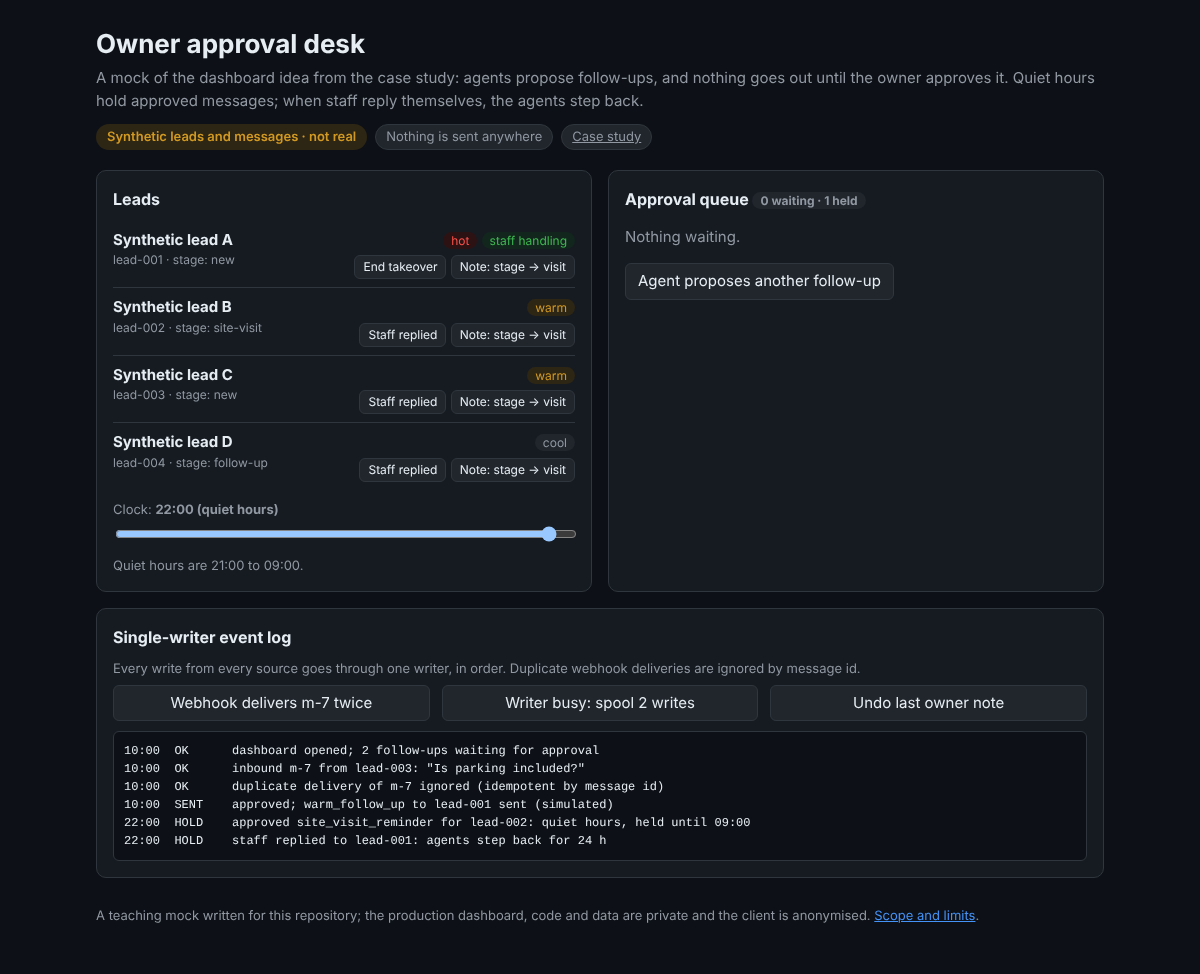
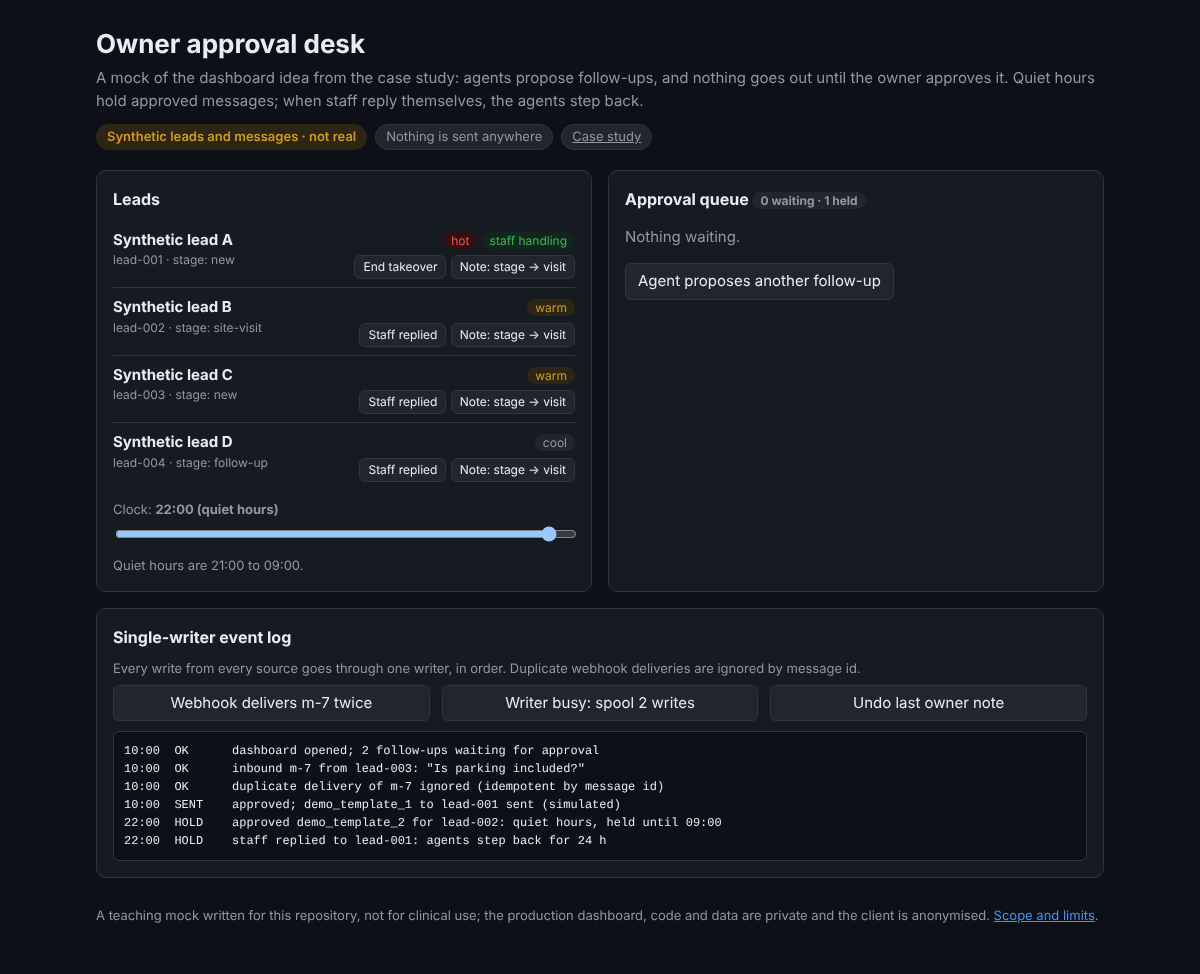
fix: address G4 review of the demo additions
- invented example values that cannot be mistaken for measured results; generic names
- terminal recording wraps long lines instead of cutting them; untrack __pycache__
- mobile layout, reduced motion, aria-live logs, safer DOM building in the calculator
- scope notes in AGENTS.md/TRUST.md; 'not for clinical use' on every demo page

Claude-Session: https://claude.ai/code/session_01Rs77ck8AWVGNB3vy8rZ9G6

Changed region(s): [[0.3083, 0.924, 0.925, 0.9548], [0.2467, 0.8008, 0.6167, 0.8624]]

diff --git a/site/index.html b/site/index.html
@@ -37,15 +37,15 @@
     <h2>Single-writer event log</h2>
     <p class="dim" style="margin:0 0 6px;font-size:13px">Every write from every source goes through one writer, in order. Duplicate webhook deliveries are ignored by message id.</p>
     <div class="row" style="margin-bottom:8px"><button id="dup">Webhook delivers m-7 twice</button><button id="busy">Writer busy: spool 2 writes</button><button id="undo">Undo last owner note</button></div>
-    <pre id="log" class="mono"></pre>
+    <pre id="log" class="mono" aria-live="polite"></pre>
   </section>
 </div>
-<footer>A teaching mock written for this repository; the production dashboard, code and data are private and the client is anonymised. <a href="https://github.com/sterilefield/whatsapp-agent-case-study/blob/main/TRUST.md">Scope and limits</a>.</footer>
+<footer>A teaching mock written for this repository, not for clinical use; the production dashboard, code and data are private and the client is anonymised. <a href="https://github.com/sterilefield/whatsapp-agent-case-study/blob/main/TRUST.md">Scope and limits</a>.</footer>
 </main>
 <script>
 const leads=[{id:"lead-001",name:"Synthetic lead A",heat:"hot",stage:"new",takeover:false},{id:"lead-002",name:"Synthetic lead B",heat:"warm",stage:"site-visit",takeover:false},{id:"lead-003",name:"Synthetic lead C",heat:"warm",stage:"new",takeover:false},{id:"lead-004",name:"Synthetic lead D",heat:"cool",stage:"follow-up",takeover:false}];
-const TEMPLATES={warm_follow_up:"Hello! Just checking whether you had a chance to look at the options we shared. Happy to answer any questions.",site_visit_reminder:"Reminder: your site visit is tomorrow at 11:00. Reply here if you need to change the time.",recommend_property:"Based on what you told us, here is one more option that matches your budget and area."};
-let queue=[{lead:"lead-001",tpl:"warm_follow_up",by:"follow-up-agent"},{lead:"lead-002",tpl:"site_visit_reminder",by:"scheduler-agent"}],held=[],spool=[],seen=new Set(),undo=[],busy=false;
+const TEMPLATES={demo_template_1:"[Invented demo text] Hello, this is a follow-up message.",demo_template_2:"[Invented demo text] A reminder about your appointment.",demo_template_3:"[Invented demo text] One more option you may like."};
+let queue=[{lead:"lead-001",tpl:"demo_template_1",by:"follow-up-agent"},{lead:"lead-002",tpl:"demo_template_2",by:"scheduler-agent"}],held=[],spool=[],seen=new Set(),undo=[],busy=false;
 const $=id=>document.getElementById(id);const hh=()=>String($("clock").value).padStart(2,"0")+":00";const quiet=()=>{const h=+$("clock").value;return h>=21||h<9};
 function log(t){$("log").textContent+=hh()+"  "+t+"\n";$("log").scrollTop=1e9}
 function write(src,desc,fn){if(busy){spool.push([src,desc,fn]);log("SPOOL   writer busy: "+src+" "+desc+" spooled ("+spool.length+" waiting)");return}fn();}
@@ -59,11 +59,11 @@ function render(){
   document.querySelectorAll("[data-take]").forEach(b=>b.onclick=()=>{const l=leads.find(x=>x.id===b.dataset.take);write("staff-phone","takeover",()=>{l.takeover=!l.takeover;log(l.takeover?"HOLD    staff replied to "+l.id+": agents step back for 24 h":"OK      takeover ended for "+l.id);if(l.takeover){const n=queue.length;queue=queue.filter(q=>q.lead!==l.id);if(n>queue.length)log("HOLD    "+(n-queue.length)+" agent follow-up(s) for "+l.id+" withdrawn")}render()})});
   document.querySelectorAll("[data-note]").forEach(b=>b.onclick=()=>{const l=leads.find(x=>x.id===b.dataset.note);write("owner-telegram","note",()=>{undo.push([l.id,l.stage]);log("OK      owner note: "+l.id+" stage "+l.stage+" → site-visit (undo handle U"+String(undo.length).padStart(3,"0")+")");l.stage="site-visit";render()})});
 }
-function decide(i,ok){const q=queue[i];write("owner-dashboard",ok?"approve":"reject",()=>{queue.splice(i,1);if(!ok)log("REJECTED owner rejected "+q.tpl+" for "+q.lead);else if(quiet()){held.push(q);log("HOLD    approved "+q.tpl+" for "+q.lead+": quiet hours, held until 09:00")}else log("SENT    approved; "+q.tpl+" to "+q.lead+" sent (simulated)");render()})}
+function decide(i,ok){const q=queue[i];write("owner-dashboard",ok?"approve":"reject",()=>{const at=queue.indexOf(q);if(at<0)return;queue.splice(at,1);if(!ok)log("REJECTED owner rejected "+q.tpl+" for "+q.lead);else if(quiet()){held.push(q);log("HOLD    approved "+q.tpl+" for "+q.lead+": quiet hours, held until 09:00")}else log("SENT    approved; "+q.tpl+" to "+q.lead+" sent (simulated)");render()})}
 $("clock").oninput=()=>{if(!quiet()&&held.length){log("SENT    quiet hours over: "+held.length+" held message(s) sent (simulated)");held=[]}render()};
 $("propose").onclick=()=>{const free=leads.filter(l=>!l.takeover);const l=free[Math.floor(Math.random()*free.length)];const tpls=Object.keys(TEMPLATES);if(!l){log("HOLD    every lead is in human takeover; agents propose nothing");return}const t=tpls[Math.floor(Math.random()*tpls.length)];write("follow-up-agent","propose",()=>{queue.push({lead:l.id,tpl:t,by:"follow-up-agent"});log("WAIT    follow-up-agent proposed "+t+" for "+l.id+": waiting for owner");render()})};
 $("dup").onclick=()=>{for(let k=0;k<2;k++)write("webhook","inbound m-7",()=>{if(seen.has("m-7"))log("OK      duplicate delivery of m-7 ignored (idempotent by message id)");else{seen.add("m-7");log("OK      inbound m-7 from lead-003: \"Is parking included?\"")}})};
-$("busy").onclick=()=>{busy=true;write("webhook","inbound m-8",()=>log("OK      inbound m-8 from lead-004 stored"));write("scheduler-agent","propose",()=>{queue.push({lead:"lead-004",tpl:"recommend_property",by:"scheduler-agent"});log("WAIT    scheduler-agent proposed recommend_property for lead-004");render()});setTimeout(()=>{busy=false;const s=spool;spool=[];s.forEach(([, ,fn])=>fn());log("replay  "+s.length+" spooled write(s) applied");render()},1200)};
+$("busy").onclick=()=>{busy=true;write("webhook","inbound m-8",()=>log("OK      inbound m-8 from lead-004 stored"));write("scheduler-agent","propose",()=>{queue.push({lead:"lead-004",tpl:"demo_template_3",by:"scheduler-agent"});log("WAIT    scheduler-agent proposed demo_template_3 for lead-004");render()});setTimeout(()=>{busy=false;const s=spool;spool=[];s.forEach(([, ,fn])=>fn());log("replay  "+s.length+" spooled write(s) applied");render()},1200)};
 $("undo").onclick=()=>{const u=undo.pop();if(!u){log("OK      nothing to undo");return}write("owner-telegram","undo",()=>{const l=leads.find(x=>x.id===u[0]);log("OK      undo: "+l.id+" stage back to "+u[1]);l.stage=u[1];render()})};
 log("OK      dashboard opened; 2 follow-ups waiting for approval");render();
 </script>

diff --git a/site/style.css b/site/style.css
@@ -6,7 +6,7 @@ a{color:var(--accent)}main{max-width:1040px;margin:0 auto;padding:24px 16px 48px
 header h1{font-size:26px;margin:0 0 4px}header p{margin:0;color:var(--dim)}
 .chips{display:flex;flex-wrap:wrap;gap:8px;margin:12px 0 0}.chip{background:var(--chip);border:1px solid var(--line);border-radius:999px;padding:2px 10px;font-size:13px;color:var(--dim)}
 .chip.warn{background:var(--warnbg);color:var(--warn);border-color:transparent;font-weight:600}
-.grid{display:grid;gap:16px;grid-template-columns:repeat(auto-fit,minmax(340px,1fr));margin-top:20px}
+.grid{display:grid;gap:16px;grid-template-columns:repeat(auto-fit,minmax(min(340px,100%),1fr));margin-top:20px}
 .card{background:var(--card);border:1px solid var(--line);border-radius:10px;padding:16px;min-width:0}.card h2{font-size:16px;margin:0 0 10px}
 .wide{grid-column:1/-1}label{display:block;font-size:13px;color:var(--dim);margin:10px 0 4px}
 select,input[type=number],input[type=range]{width:100%;font:inherit;color:var(--fg);background:var(--bg);border:1px solid var(--line);border-radius:6px;padding:6px 8px}
@@ -23,3 +23,4 @@ table{border-collapse:collapse;width:100%;font-size:13px}th,td{border-bottom:1px
 .bar{height:22px;border-radius:4px;background:var(--accent);min-width:2px;transition:width .3s}.bar.after{background:var(--ok)}
 .row{display:flex;gap:12px;flex-wrap:wrap}.row>*{flex:1 1 140px}
 .big{font-size:28px;font-weight:700}
+@media (prefers-reduced-motion:reduce){.bar{transition:none}}

diff --git a/demo/spine_demo.py b/demo/spine_demo.py
@@ -4,7 +4,7 @@
     python3 demo/spine_demo.py            # run the scripted day and print the event log
     python3 demo/spine_demo.py --db x.db  # keep the SQLite file to inspect it
 
-It shows, in about 250 lines of standard-library Python:
+It shows, in about 200 lines of standard-library Python:
   * one writer: every producer (webhook, agents, owner dashboard) sends writes to a single writer;
   * idempotent inbound messages keyed by message id (a duplicate webhook delivery is ignored);
   * a spool: when the writer cannot get the lock in time, writes are spooled and replayed;
@@ -98,7 +98,9 @@ class Writer:
                 until = (self.now + TAKEOVER).isoformat()
                 self.db.execute("INSERT OR IGNORE INTO messages VALUES (?,?,?,?,?)", (a["msg_id"], a["lead"], "out-staff", a["body"], ts))
                 self.db.execute("UPDATE leads SET takeover_until=? WHERE id=?", (until, a["lead"]))
-                self.say(f"HOLD    staff replied to {a['lead']}: agents step back until {self.now + TAKEOVER:%a %H:%M}")
+                n = self.db.execute("UPDATE outbox SET status='withdrawn' WHERE lead_id=? AND status='pending_approval'", (a["lead"],)).rowcount
+                self.say(f"HOLD    staff replied to {a['lead']}: agents step back until {self.now + TAKEOVER:%a %H:%M}"
+                         + (f"; {n} queued follow-up(s) withdrawn" if n else ""))
             elif w.op == "propose_followup":
                 row = self.db.execute("SELECT takeover_until FROM leads WHERE id=?", (a["lead"],)).fetchone()
                 if row and row[0] and row[0] > ts:
@@ -144,10 +146,13 @@ FIELD_SQL = {"stage": ("SELECT stage FROM leads WHERE id=?", "UPDATE leads SET s
 ALLOWED_FIELDS = set(FIELD_SQL)
 
 
+SENSITIVE = {"lost", "do-not-contact", "opted-out", "deleted"}
+
+
 def owner_note(text: str) -> Write | None:
     """Apply a note only when it is unambiguous: one lead id plus one known field. Anything else asks first."""
     parts = text.split()
-    if len(parts) == 3 and parts[0].startswith("lead-") and parts[1] in ALLOWED_FIELDS and parts[2] not in ("lost", "do-not-contact"):
+    if len(parts) == 3 and parts[0].startswith("lead-") and parts[1] in ALLOWED_FIELDS and parts[2] not in SENSITIVE:
         return Write("owner-telegram", "owner_note", {"lead": parts[0], "field": parts[1], "value": parts[2]})
     return None
 
@@ -168,16 +173,16 @@ def scripted_day(db_path: str | None = None) -> Writer:
     w.submit(Write("webhook", "inbound", {"lead": "lead-001", "msg_id": "m-1", "body": "Is the 2BHK still available?"}))
     at(10, 5)
     w.submit(Write("webhook", "new_lead", {"lead": "lead-002", "name": "Synthetic lead B"}))
-    w.submit(Write("follow-up-agent", "propose_followup", {"lead": "lead-001", "template": "warm_follow_up"}))
+    w.submit(Write("follow-up-agent", "propose_followup", {"lead": "lead-001", "template": "demo_template_1"}))
     at(10, 20)
     w.submit(Write("owner-dashboard", "owner_decides", {"lead": "lead-001", "decision": "approve"}))
     at(11, 0)
     w.submit(Write("staff-phone", "staff_reply", {"lead": "lead-002", "msg_id": "m-2", "body": "Calling you now"}))
-    w.submit(Write("follow-up-agent", "propose_followup", {"lead": "lead-002", "template": "warm_follow_up"}))
+    w.submit(Write("follow-up-agent", "propose_followup", {"lead": "lead-002", "template": "demo_template_1"}))
     at(14, 0)
     w.lock_available = False
     w.submit(Write("webhook", "inbound", {"lead": "lead-001", "msg_id": "m-3", "body": "Can I visit on Saturday?"}))
-    w.submit(Write("scheduler-agent", "propose_followup", {"lead": "lead-001", "template": "site_visit_reminder"}))
+    w.submit(Write("scheduler-agent", "propose_followup", {"lead": "lead-001", "template": "demo_template_2"}))
     at(14, 1)
     w.lock_available = True
     w.replay()

diff --git a/scripts/term_svg.py b/scripts/term_svg.py
@@ -5,7 +5,7 @@ Usage:
     python3 scripts/term_svg.py OUT_PREFIX "TITLE" -- COMMAND [ARGS...]
 
 Writes OUT_PREFIX-light.svg and OUT_PREFIX-dark.svg. Lines appear one after another, then stay.
-Standard library only. The output shown is exactly what the command printed (ANSI codes stripped).
+Standard library only. The output shown is exactly what the command printed (ANSI codes stripped); long lines wrap, as in a terminal.
 """
 from __future__ import annotations
 
@@ -19,7 +19,7 @@ THEMES = {
     "light": {"bg": "#ffffff", "bar": "#eaeef2", "fg": "#1f2328", "dim": "#59636e", "ok": "#1a7f37", "bad": "#cf222e", "warn": "#9a6700", "border": "#d1d9e0"},
     "dark": {"bg": "#0d1117", "bar": "#161b22", "fg": "#e6edf3", "dim": "#9198a1", "ok": "#3fb950", "bad": "#f85149", "warn": "#d29922", "border": "#30363d"},
 }
-LINE_H, CHAR_W, PAD, BAR_H, MAX_COLS = 19, 7.8, 16, 30, 104
+LINE_H, CHAR_W, PAD, BAR_H, MAX_COLS = 19, 7.8, 16, 30, 120
 
 
 def colour(line: str, t: dict) -> str:
@@ -37,7 +37,13 @@ def colour(line: str, t: dict) -> str:
 
 def render(lines: list[str], title: str, theme: str, step: float = 0.18) -> str:
     t = THEMES[theme]
-    lines = [l[:MAX_COLS] for l in lines]
+    # Wrap long lines like a terminal does (nothing is cut off); colour follows the original line.
+    wrapped = []
+    for l in lines:
+        c = colour(l, t)
+        for k in range(0, max(len(l), 1), MAX_COLS):
+            wrapped.append((l[k:k + MAX_COLS], c))
+    lines = [w for w, _ in wrapped]
     width = int(PAD * 2 + CHAR_W * max(60, max((len(l) for l in lines), default=60)))
     height = BAR_H + PAD + LINE_H * len(lines) + PAD
     out = [
@@ -56,7 +62,7 @@ def render(lines: list[str], title: str, theme: str, step: float = 0.18) -> str:
     for i, line in enumerate(lines):
         y = BAR_H + PAD + LINE_H * (i + 0.8)
         out.append(
-            f'<text class="l" style="animation-delay:{i*step:.2f}s" x="{PAD}" y="{y:.1f}" fill="{colour(line, t)}" xml:space="preserve">{html.escape(line)}</text>'
+            f'<text class="l" style="animation-delay:{i*step:.2f}s" x="{PAD}" y="{y:.1f}" fill="{wrapped[i][1]}" xml:space="preserve">{html.escape(line)}</text>'
         )
     out.append("</svg>")
     return "\n".join(out) + "\n"

diff --git a/tests/test_demo.py b/tests/test_demo.py
@@ -22,11 +22,20 @@ class Spine(unittest.TestCase):
 
     def test_nothing_sent_without_owner_approval(self):
         statuses = {s for (s,) in self.q("SELECT status FROM outbox")}
+        self.assertLessEqual(statuses, {"sent", "rejected", "withdrawn"})
         self.assertNotIn("pending_approval", statuses)
         self.assertEqual(self.q("SELECT COUNT(*) FROM outbox WHERE status='sent'")[0][0], 2)
 
     def test_takeover_blocks_agent_followups(self):
         self.assertEqual(self.q("SELECT COUNT(*) FROM outbox WHERE lead_id='lead-002'")[0][0], 0)
+
+    def test_takeover_withdraws_queued_followups(self):
+        w = sd.Writer(sd.sqlite3.connect(":memory:"))
+        w.db.executescript(sd.SCHEMA)
+        w.submit(sd.Write("webhook", "new_lead", {"lead": "lead-009", "name": "Synthetic lead"}))
+        w.submit(sd.Write("agent", "propose_followup", {"lead": "lead-009", "template": "demo_template_1"}))
+        w.submit(sd.Write("staff", "staff_reply", {"lead": "lead-009", "msg_id": "m-9", "body": "hi"}))
+        self.assertEqual(w.db.execute("SELECT status FROM outbox").fetchone()[0], "withdrawn")
 
     def test_quiet_hours(self):
         self.assertTrue(sd.in_quiet_hours(datetime(2026, 1, 5, 22, 0)))
@@ -40,6 +49,8 @@ class Spine(unittest.TestCase):
     def test_sensitive_or_ambiguous_notes_are_not_applied(self):
         self.assertIsNone(sd.owner_note("mark lead-002 lost"))
         self.assertIsNone(sd.owner_note("lead-002 stage lost"))
+        self.assertIsNone(sd.owner_note("lead-002 stage opted-out"))
+        self.assertIsNone(sd.owner_note("lead-002 stage deleted"))
         self.assertIsNone(sd.owner_note("lead-002 phone 123"))
         self.assertIsNotNone(sd.owner_note("lead-002 stage warm"))
 
